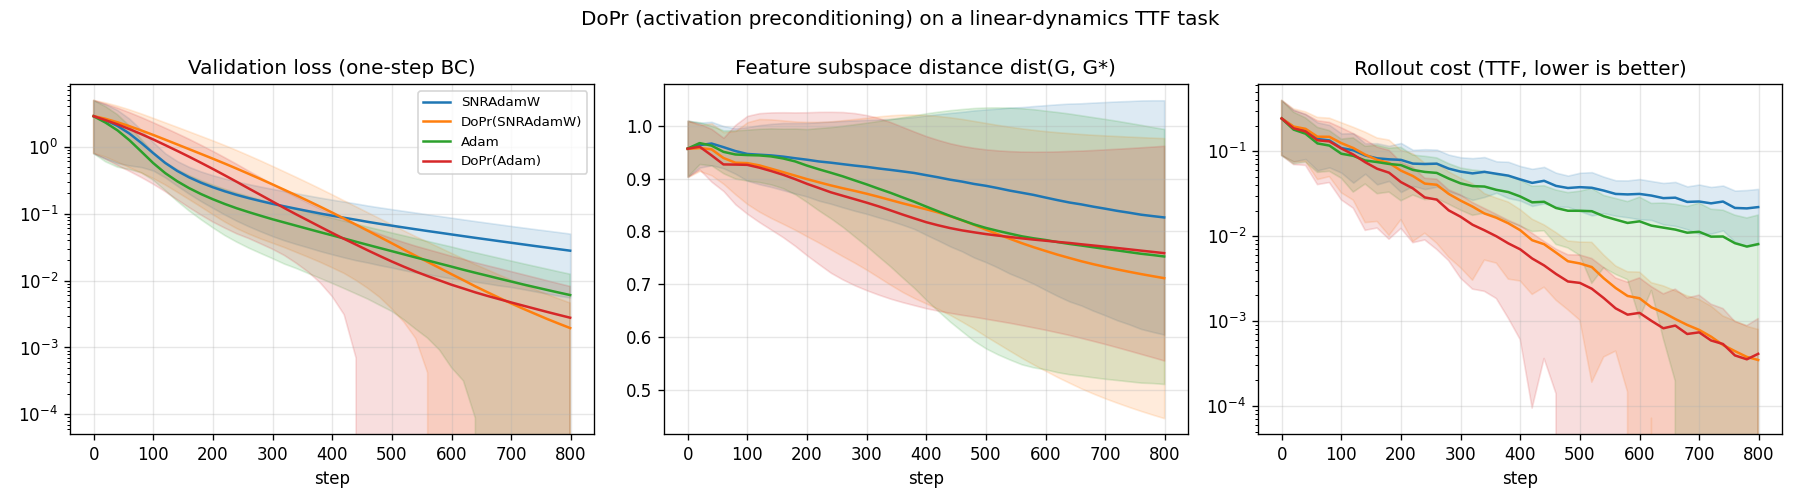
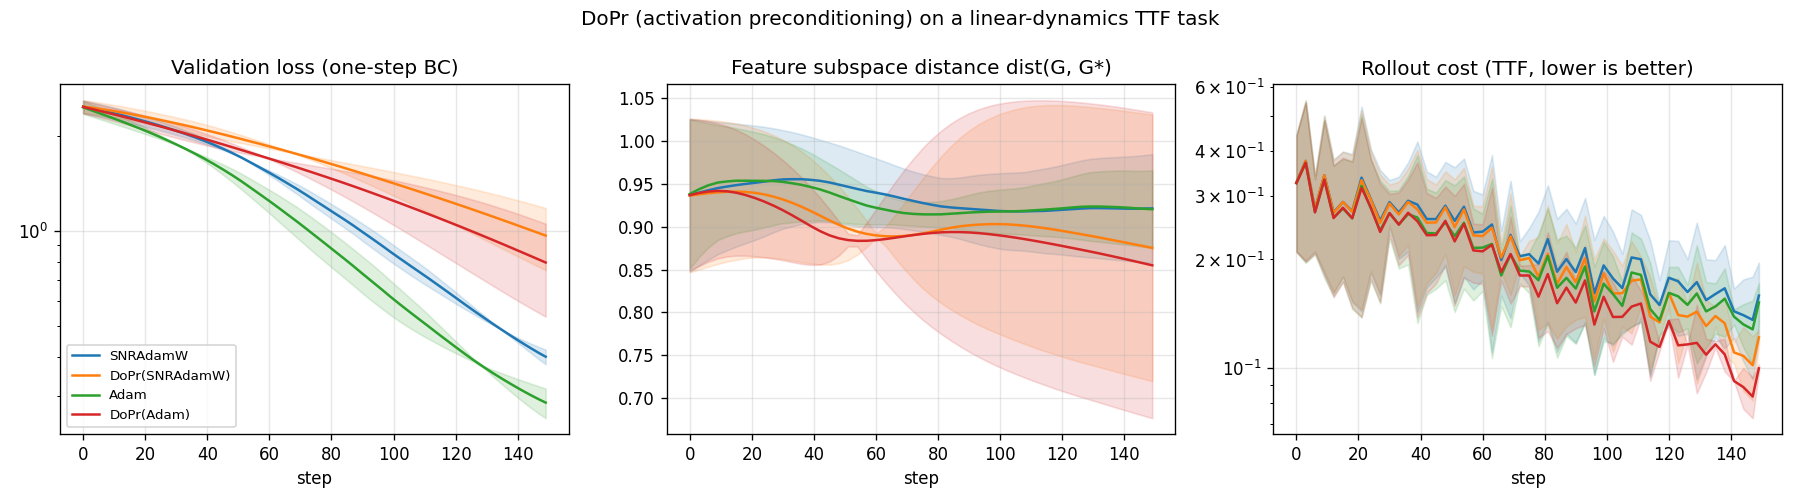
Fix DoPr issues found in adversarial review
- Damping: add an absolute floor (damping_floor, default 1e-8) on top of the
  scale-invariant relative term so the solve stays well-posed for zero / masked /
  rank-deficient activations; drop the torch.linalg.solve branch that raised on a
  singular matrix (previously crashed step() on all-zero activations).
- DoPr.__getattr__ now raises AttributeError (not KeyError) when base is unset, so
  copy/deepcopy/unpickle protocols work; document that DoPr itself is not picklable.
- Tied-weight detection scans the full module tree, so a weight tied to an
  excluded/filtered module is still detected and skipped (was applied anyway).
- Warn that fused nn.MultiheadAttention is not preconditioned (it bypasses module
  hooks via F.linear); correct the README/docstring attention claim.
- load_state_dict warns on EMA entries that match no current module instead of
  silently dropping them.
- Replace mutable default ActivationPrecondConfig() args with Optional/None.
- Document that precondition_ must be called each step (activation cache lifecycle).
- Add regression tests for all of the above (28 -> 36 activation tests).

Claude-Session: https://claude.ai/code/session_01DysBqKxtrwyeDLsFGWYj5r

diff --git a/src/snr_grad/activation.py b/src/snr_grad/activation.py
@@ -95,10 +95,16 @@ class ActivationPrecondConfig:
 
     Args:
         damping:
-            ``gamma`` in ``S_z + gamma * tr(S_z)/d_z * I``. Scale-invariant: the
-            damping is set relative to the magnitude of ``S_z``. Must be > 0 so
-            the damped covariance is invertible even when the batch is smaller
-            than the layer fan-in (rank-deficient ``S_z``).
+            ``gamma`` in ``S_z + (gamma * tr(S_z)/d_z + damping_floor) * I``.
+            Scale-invariant: this term is set relative to the magnitude of
+            ``S_z``. Must be > 0. Note that the *relative* term alone does not
+            guarantee invertibility (it vanishes when ``S_z`` is all-zero, e.g. a
+            layer whose inputs are fully masked); the absolute ``damping_floor``
+            provides that guarantee.
+        damping_floor:
+            Absolute floor added to the damping (default ``1e-8``), so the damped
+            covariance is positive-definite even when ``S_z`` is zero or
+            rank-deficient. Must be >= 0.
         ema_beta:
             If set, the activation covariance is an exponential moving average
             ``S <- ema_beta * S + (1 - ema_beta) * S_batch`` instead of the raw
@@ -132,6 +138,7 @@ class ActivationPrecondConfig:
     """
 
     damping: float = 0.1
+    damping_floor: float = 1e-8
     ema_beta: Optional[float] = None
     warmup_steps: int = 0
     include_modules: Optional[Sequence[str]] = None
@@ -144,6 +151,8 @@ class ActivationPrecondConfig:
     def __post_init__(self) -> None:
         if self.damping <= 0:
             raise ValueError(f"damping must be > 0, got {self.damping}.")
+        if self.damping_floor < 0:
+            raise ValueError(f"damping_floor must be >= 0, got {self.damping_floor}.")
         if self.ema_beta is not None and not 0.0 <= self.ema_beta < 1.0:
             raise ValueError(f"ema_beta must be in [0, 1), got {self.ema_beta}.")
         if self.warmup_steps < 0:
@@ -193,10 +202,10 @@ class ActivationPreconditioner:
     def __init__(
         self,
         model: nn.Module,
-        config: ActivationPrecondConfig = ActivationPrecondConfig(),
+        config: Optional[ActivationPrecondConfig] = None,
     ) -> None:
         self.model = model
-        self.config = config
+        self.config = config if config is not None else ActivationPrecondConfig()
 
         # Per-module bookkeeping.
         self._kind: dict[nn.Module, str] = {}
@@ -230,10 +239,18 @@ class ActivationPreconditioner:
 
     def _register(self, model: nn.Module) -> None:
         cfg = self.config
-        # First pass: figure out which modules to register, detect tied weights
-        # and unsupported conv layers.
-        candidates: list[tuple[str, nn.Module, str]] = []
+        # Tied-weight detection scans the FULL module tree (not just the modules
+        # that survive include/exclude filtering): a weight tied to an excluded or
+        # filtered-out module is still ambiguous and must be skipped.
         weight_owners: dict[int, list[str]] = {}
+        for name, module in model.named_modules():
+            weight = getattr(module, "weight", None)
+            if isinstance(weight, Tensor):
+                weight_owners.setdefault(id(weight), []).append(name)
+
+        # First pass: figure out which modules to register and reject unsupported
+        # conv layers / warn about layers whose hook will not fire.
+        candidates: list[tuple[str, nn.Module, str]] = []
         for name, module in model.named_modules():
             if _name_matches(name, cfg.exclude_modules):
                 continue
@@ -247,6 +264,16 @@ class ActivationPreconditioner:
                     f"not implemented; exclude it via "
                     f"ActivationPrecondConfig(exclude_modules=[...])."
                 )
+            if isinstance(module, nn.MultiheadAttention):
+                warnings.warn(
+                    f"ActivationPreconditioner: fused nn.MultiheadAttention {name!r} "
+                    f"computes its projections via F.linear and bypasses module hooks, "
+                    f"so activation preconditioning will NOT be applied to it. Use "
+                    f"explicit nn.Linear Q/K/V/out projections for AP support.",
+                    RuntimeWarning,
+                    stacklevel=3,
+                )
+                continue
             kind = self._supported_kind(module)
             if kind is None:
                 continue
@@ -254,7 +281,6 @@ class ActivationPreconditioner:
             if weight is None:
                 continue
             candidates.append((name, module, kind))
-            weight_owners.setdefault(id(weight), []).append(name)
 
         for name, module, kind in candidates:
             weight = module.weight
@@ -326,22 +352,27 @@ class ActivationPreconditioner:
         solve ``S_d X = G^T`` for ``X`` and return ``X^T``.
         """
         d_z = sigma.shape[0]
-        tau = self.config.damping * (sigma.diagonal().sum() / d_z)
         eye = torch.eye(d_z, dtype=sigma.dtype, device=sigma.device)
-        sd = sigma + tau * eye
         gt = g.to(sigma.dtype).t().contiguous()
+        # Damping has a scale-invariant relative term plus an absolute floor; the
+        # floor keeps S_d positive-definite even when S_z is zero/rank-deficient.
+        tau = self._damping_tau(sigma.diagonal().sum(), d_z)
+        sd = sigma + tau * eye
         L, info = torch.linalg.cholesky_ex(sd)
-        if int(info) == 0:
-            x = torch.cholesky_solve(gt, L)
-        else:
-            # Numerical fallback: bump damping once, else a general solve.
-            sd2 = sigma + (tau * 10.0) * eye
-            L2, info2 = torch.linalg.cholesky_ex(sd2)
-            if int(info2) == 0:
-                x = torch.cholesky_solve(gt, L2)
-            else:
-                x = torch.linalg.solve(sd2, gt)
+        if int(info) != 0:
+            # Numerical safety net: bump the damping until the factorization
+            # succeeds (guaranteed to terminate as tau grows).
+            for _ in range(5):
+                tau = tau * 10.0
+                L, info = torch.linalg.cholesky_ex(sigma + tau * eye)
+                if int(info) == 0:
+                    break
+        x = torch.cholesky_solve(gt, L)
         return x.t()
+
+    def _damping_tau(self, trace: Tensor, d_z: int) -> Tensor:
+        """Scale-invariant relative damping plus an absolute floor."""
+        return self.config.damping * (trace / d_z) + self.config.damping_floor
 
     # -- main API -----------------------------------------------------------
 
@@ -354,6 +385,12 @@ class ActivationPreconditioner:
         clears the per-step activation cache. Modules that did not run a forward
         this step (no captured activations) are skipped, unless EMA is enabled and
         ``use_stale_ema_on_missing`` is set.
+
+        Note: the activation cache is populated by forward passes and consumed (and
+        cleared) here. Call this once per training step, in the usual
+        ``loss.backward(); precondition_(); optimizer.step()`` loop. If a forward
+        pass runs without a following ``precondition_()`` (or :meth:`zero_grad` /
+        :meth:`reset`), its activations carry over into the next step's covariance.
         """
         self._step += 1
         cfg = self.config
@@ -406,7 +443,7 @@ class ActivationPreconditioner:
         scales row ``v`` of ``G`` by ``1/(p_v + tau)`` (rare tokens upweighted).
         """
         d_z = sigma_diag.shape[0]
-        tau = self.config.damping * (sigma_diag.sum() / d_z)
+        tau = self._damping_tau(sigma_diag.sum(), d_z)
         denom = (sigma_diag + tau).to(g.dtype).unsqueeze(1)  # [vocab, 1]
         return g / denom
 
@@ -450,15 +487,31 @@ class ActivationPreconditioner:
         return {"step": self._step, "sigma_ema": ema}
 
     def load_state_dict(self, state: dict[str, Any]) -> None:
-        """Restore step counter and EMA covariances from :meth:`state_dict`."""
+        """Restore step counter and EMA covariances from :meth:`state_dict`.
+
+        Emits a warning if saved EMA entries do not match any current module
+        (e.g. loading onto a structurally different model), since those
+        covariances would otherwise be silently dropped.
+        """
         self._step = int(state.get("step", 0))
         self._sigma_ema.clear()
         ema = state.get("sigma_ema", {})
         name_to_module = {n: m for m, n in self._name_of_module.items()}
+        unmatched = []
         for name, sigma in ema.items():
             module = name_to_module.get(name)
             if module is not None:
                 self._sigma_ema[module] = sigma.clone()
+            else:
+                unmatched.append(name)
+        if unmatched:
+            warnings.warn(
+                f"ActivationPreconditioner.load_state_dict: {len(unmatched)} saved EMA "
+                f"covariance(s) had no matching module and were dropped: {unmatched}. "
+                f"The model structure may differ from the checkpoint.",
+                RuntimeWarning,
+                stacklevel=2,
+            )
 
     def __enter__(self) -> "ActivationPreconditioner":
         return self
@@ -494,13 +547,17 @@ class DoPr:
 
         opt = DoPr(SNRAdamW(model.parameters(), lr=3e-4), model)
         loss.backward(); opt.step(); opt.zero_grad()
+
+    Note: checkpoint via :meth:`state_dict` / :meth:`load_state_dict`. ``DoPr`` is
+    not picklable because the activation hooks hold module closures; use the state
+    dict rather than ``pickle``/``torch.save`` of the object itself.
     """
 
     def __init__(
         self,
         base_optimizer: Any,
         model: nn.Module,
-        config: ActivationPrecondConfig = ActivationPrecondConfig(),
+        config: Optional[ActivationPrecondConfig] = None,
     ) -> None:
         self.base = base_optimizer
         self.ap = ActivationPreconditioner(model, config)
@@ -535,5 +592,10 @@ class DoPr:
 
     def __getattr__(self, name: str) -> Any:
         # Only reached when normal lookup fails; delegate to the base optimizer.
-        # ``base`` itself is a normal attribute so this won't recurse for it.
-        return getattr(self.__dict__["base"], name)
+        # During copy/deepcopy/unpickle ``base`` may not be set yet -- raise
+        # AttributeError (not KeyError) so those protocols work correctly.
+        try:
+            base = self.__dict__["base"]
+        except KeyError:
+            raise AttributeError(name)
+        return getattr(base, name)

diff --git a/tests/test_activation.py b/tests/test_activation.py
@@ -455,6 +455,96 @@ class TestMaximize:
         assert torch.allclose(lin.weight.grad, -M_ref, atol=1e-10)
 
 
+class TestSingularInput:
+    """Regression: zero/dead activations must not crash the solve (damping floor)."""
+
+    def test_zero_activations_do_not_crash(self):
+        lin = nn.Linear(4, 3, bias=False).double()
+        ap = ActivationPreconditioner(
+            lin, ActivationPrecondConfig(damping=0.5, compute_dtype=torch.float64))
+        # All-zero input -> Sigma_z = 0; a nonzero grad arrives via another path.
+        lin(torch.zeros(6, 4, dtype=torch.float64)).sum().backward()
+        lin.weight.grad = torch.randn_like(lin.weight)
+        ap.precondition_()  # must not raise
+        assert torch.isfinite(lin.weight.grad).all()
+
+    def test_damping_floor_validation(self):
+        with pytest.raises(ValueError):
+            ActivationPrecondConfig(damping_floor=-1.0)
+
+    def test_floor_only_is_well_defined(self):
+        # damping floor alone (tiny relative term) still yields a finite, large
+        # update for a zero-covariance layer.
+        lin = nn.Linear(4, 3, bias=False).double()
+        ap = ActivationPreconditioner(
+            lin, ActivationPrecondConfig(damping=0.1, damping_floor=1e-6,
+                                         compute_dtype=torch.float64))
+        lin(torch.zeros(5, 4, dtype=torch.float64)).sum().backward()
+        G = torch.randn_like(lin.weight)
+        lin.weight.grad = G.clone()
+        ap.precondition_()
+        # With Sigma=0, M = G / floor (row/col-uniform scaling), finite.
+        assert torch.allclose(lin.weight.grad, G / 1e-6, rtol=1e-4)
+
+
+class TestDoPrCopyAndDelegation:
+    """Regression: __getattr__ must raise AttributeError so copy/pickle protocols work."""
+
+    def test_copy_works(self):
+        import copy
+        m = nn.Linear(5, 3)
+        opt = DoPr(SNRAdamW(m.parameters(), lr=1e-2), m)
+        copy.copy(opt)  # must not raise KeyError
+
+    def test_missing_attr_raises_attributeerror(self):
+        m = nn.Linear(5, 3)
+        opt = DoPr(SNRAdamW(m.parameters(), lr=1e-2), m)
+        with pytest.raises(AttributeError):
+            _ = opt.this_attr_does_not_exist
+
+
+class TestMultiheadAttention:
+    """Regression: fused MHA bypasses module hooks -> warn that it is not preconditioned."""
+
+    def test_mha_warns(self):
+        with warnings.catch_warnings(record=True) as caught:
+            warnings.simplefilter("always")
+            ActivationPreconditioner(
+                nn.MultiheadAttention(8, 2, batch_first=True),
+                ActivationPrecondConfig(damping=0.1))
+        assert any("multiheadattention" in str(w.message).lower() for w in caught)
+
+
+class TestTiedWeightExcludedPartner:
+    """Regression: a weight tied to an EXCLUDED/filtered module must still be skipped."""
+
+    def test_tied_to_excluded_is_skipped(self):
+        emb = nn.Embedding(6, 4)
+        head = nn.Linear(4, 6, bias=False)
+        head.weight = emb.weight  # tied to a module we will exclude
+        model = nn.ModuleDict({"emb": emb, "head": head})
+        ap = ActivationPreconditioner(
+            model, ActivationPrecondConfig(damping=0.1, exclude_modules=["head"]))
+        idx = torch.tensor([0, 1, 2])
+        (emb(idx) ** 2).sum().backward()
+        g_before = emb.weight.grad.clone()
+        ap.precondition_()
+        assert torch.equal(emb.weight.grad, g_before)  # not preconditioned (ambiguous tie)
+
+
+class TestStateDictMismatch:
+    """Regression: loading EMA onto a structurally different model warns, not silent."""
+
+    def test_unmatched_ema_warns(self):
+        m = nn.Linear(4, 3)
+        ap = ActivationPreconditioner(m, ActivationPrecondConfig(ema_beta=0.9))
+        with warnings.catch_warnings(record=True) as caught:
+            warnings.simplefilter("always")
+            ap.load_state_dict({"step": 3, "sigma_ema": {"nope": torch.eye(4)}})
+        assert ap.step_count == 3
+        assert any("no matching module" in str(w.message).lower() for w in caught)
+
+
 class TestStaleEMA:
 
     def test_skips_module_without_forward_when_no_ema(self):

diff --git a/README.md b/README.md
@@ -328,9 +328,12 @@ linear) and is orthogonal to decoupled weight decay and schedule-free parameter 
 substituting the AP gradient does not change the update norm -- so existing muP /
 learning-rate / weight-decay **scaling rules of the base GP transfer directly** to DoPr.
 
-**Supported layers:** `nn.Linear` (covers attention Q/K/V/out projections) and
-`nn.Embedding` (one-hot inputs => diagonal covariance = per-token counts, applied
-efficiently as a row-wise rescale that upweights rare tokens).
+**Supported layers:** `nn.Linear` (including the explicit Q/K/V/out `nn.Linear`
+projections used by custom transformer blocks) and `nn.Embedding` (one-hot inputs =>
+diagonal covariance = per-token counts, applied efficiently as a row-wise rescale that
+upweights rare tokens). Note: **fused `nn.MultiheadAttention` is not preconditioned** —
+it computes its projections via `F.linear` and bypasses module hooks, so a warning is
+emitted; use explicit `nn.Linear` projections for AP support.
 
 `benchmark_dopr.py` reproduces the paper's minimal LDS behavior-cloning TTF example and
 plots validation loss, feature-subspace distance, and rollout cost for `SNRAdamW` vs
@@ -348,8 +351,10 @@ uv run python benchmark_dopr.py            # or --quick
 - Tied / shared weights (e.g. tied input/output embeddings) are skipped with a warning,
   because the correct AP is ambiguous (different, even differently shaped, covariances).
 - The covariance and its solve run in fp32 by default for numerical stability.
-- The affine-invariance property is exact only for the undamped update; damping is set
-  scale-invariantly via `gamma`.
+- Damping combines a scale-invariant relative term (`gamma`) with a small absolute floor
+  (`damping_floor`, default `1e-8`) so the solve stays well-posed even for zero / masked /
+  rank-deficient activations. The affine-invariance property is exact only for the
+  undamped update.
 - Covariances are computed from local activations; distributed (DDP) aggregation is out of
   scope.
 